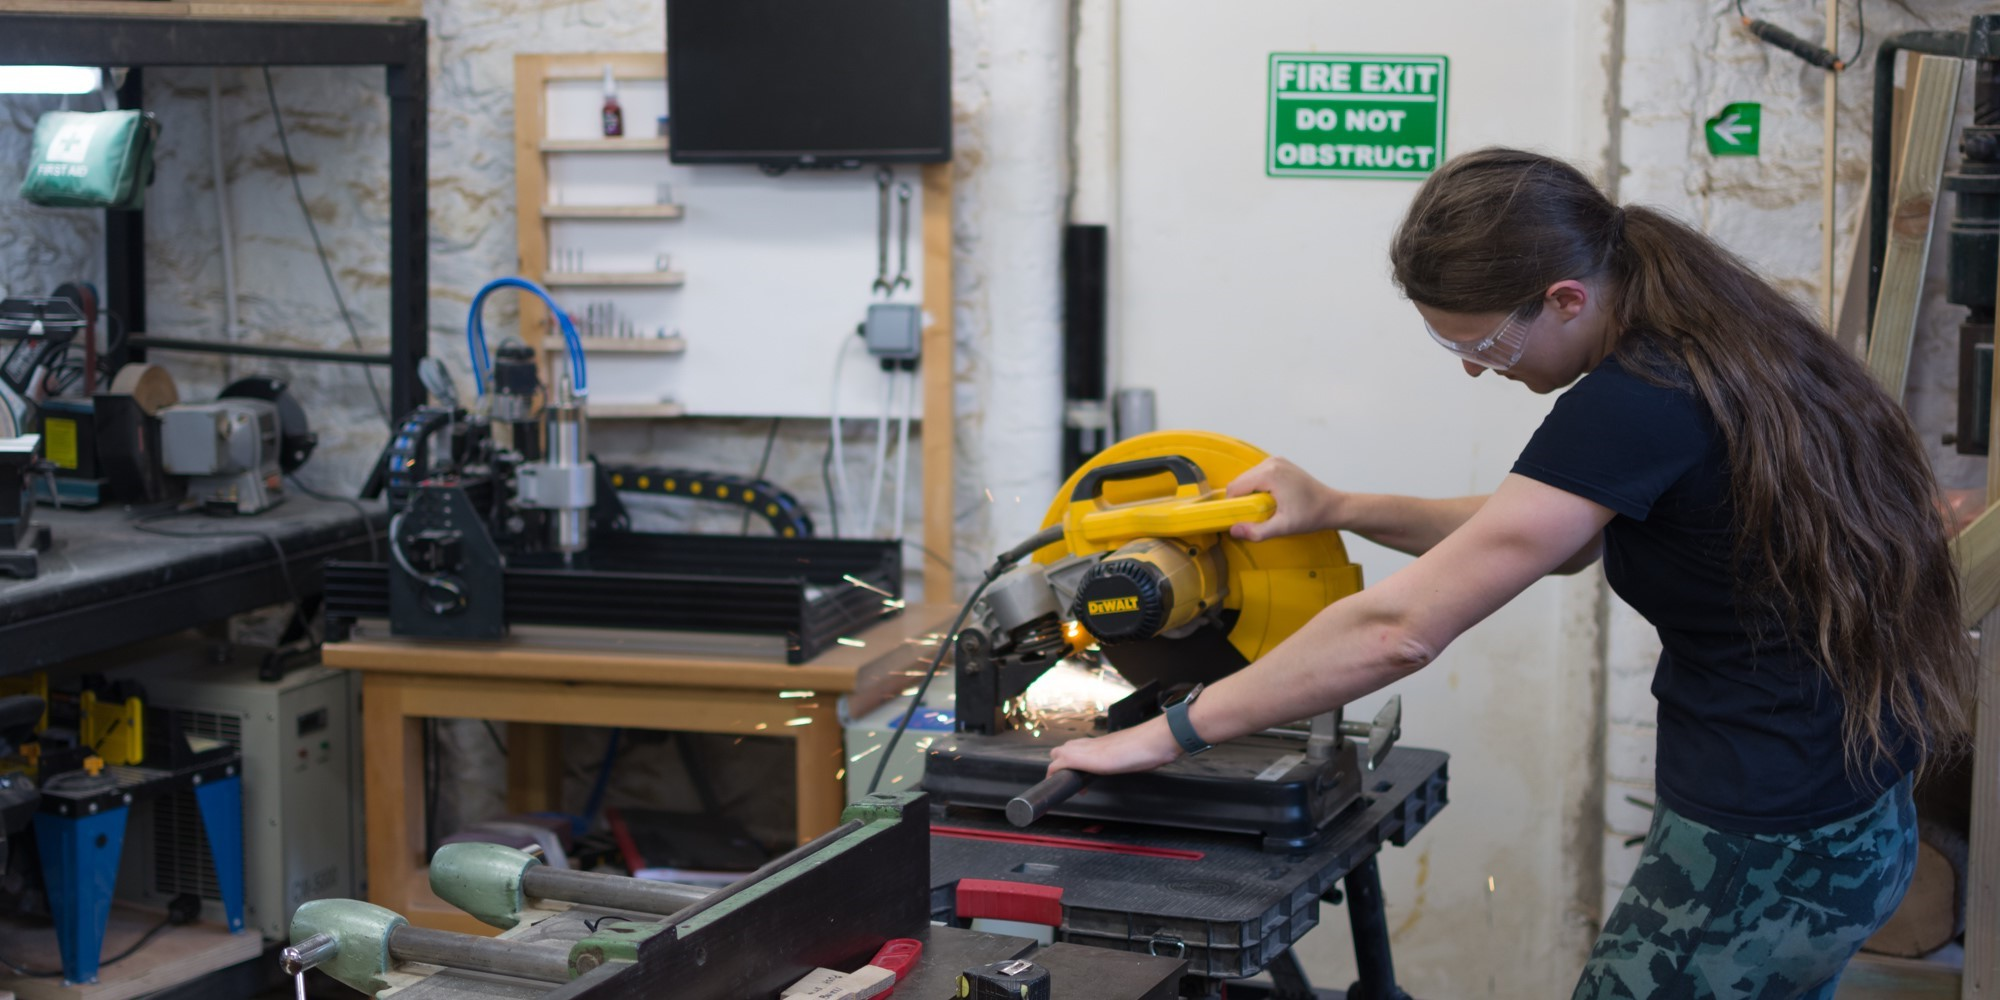
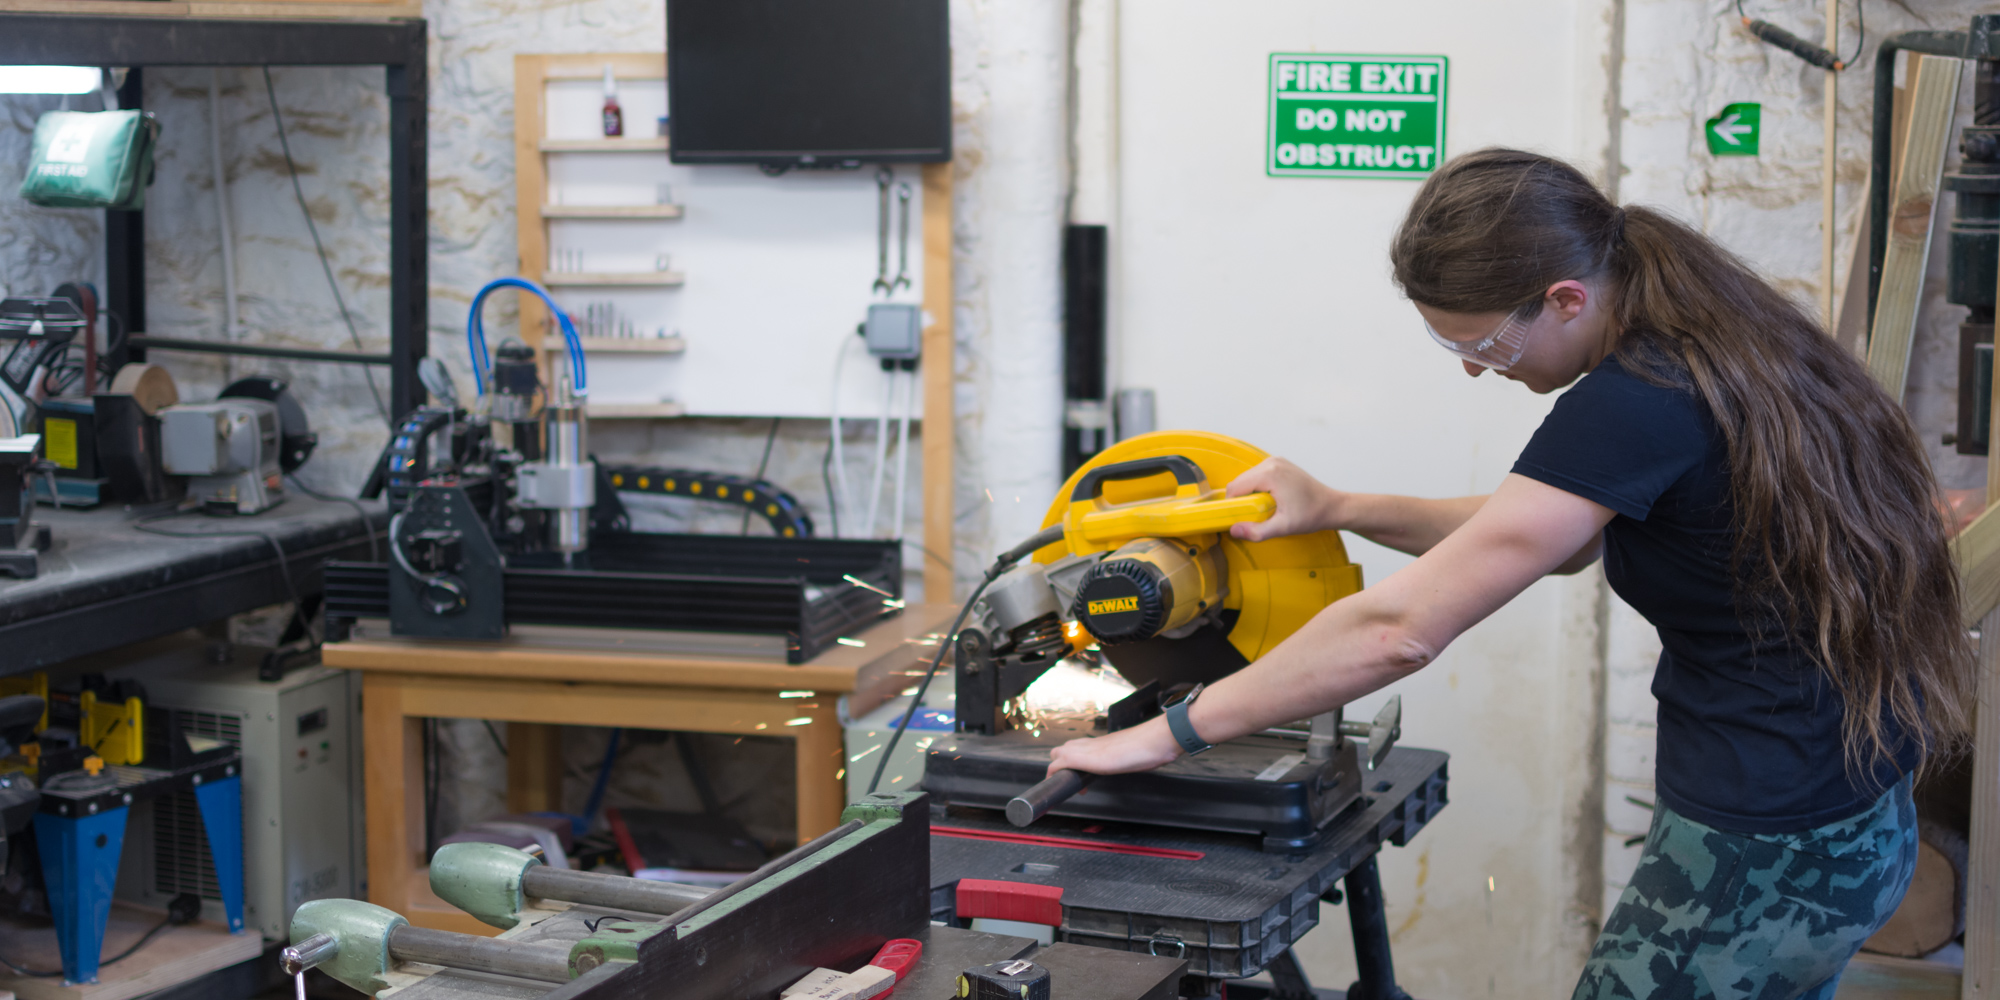
add cache busting and add lighter image

diff --git a/_includes/head.html b/_includes/head.html
@@ -20,8 +20,8 @@
 			document.documentElement.className = document.documentElement.className.replace(/\bno-js\b/g, '') + 'js';
 		}
 	</script>
-
-	<link rel="stylesheet" href="{{ '/assets/stylesheets/main.css' | relative_url }}">
+	{% assign cacheBust = site.time | date:'?v=%s' %}
+	<link rel="stylesheet" href="{{ '/assets/stylesheets/main.css' | relative_url | append: cacheBust }}">
 	{% if site.data.theme.google_fonts %}
 	<link rel="stylesheet" href="https://fonts.googleapis.com/css?family={% for font in site.data.theme.google_fonts %}{{ font.name | replace: ' ', '+' }}{% if font.weights %}:{% endif %}{{ font.weights | remove: ' ' }}{% if forloop.last != true %}|{% endif %}{% endfor %}">
 	{% endif %}
